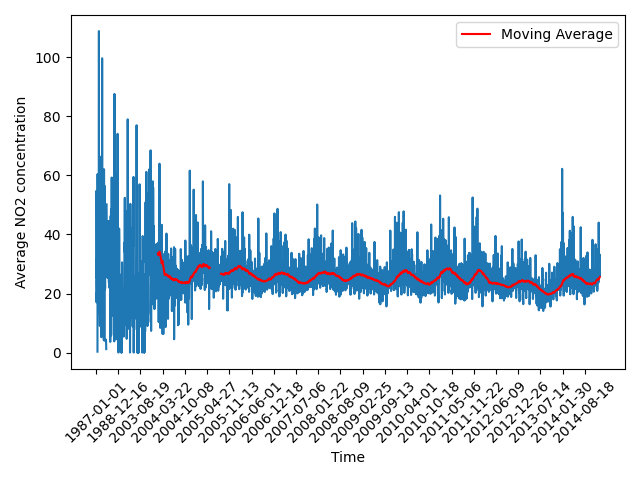
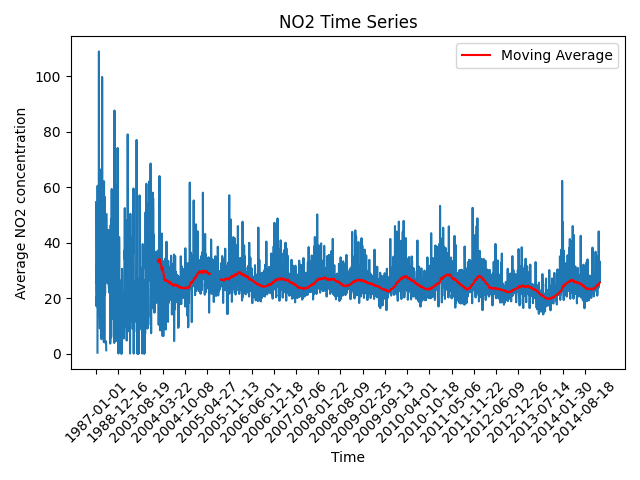
add titles

diff --git a/visualisations/time_viz.py b/visualisations/time_viz.py
@@ -34,6 +34,10 @@ plt.xticks(df.index[::200], rotation=45)
 # add moving average
 df["MA"] = df[variable].rolling(window=100).mean()
 plt.plot(df.index, df["MA"], label="Moving Average", color="red")
+
+# add title
+plt.title(f"{variable} Time Series")
+
 plt.legend()
 
 # Use tight layout
@@ -64,6 +68,8 @@ corr = corr.loc[
 ]
 
 sns.heatmap(corr, annot=True)
+
+plt.title("Correlation between Physical & Chemical Variables")
 
 plt.tight_layout()
 
